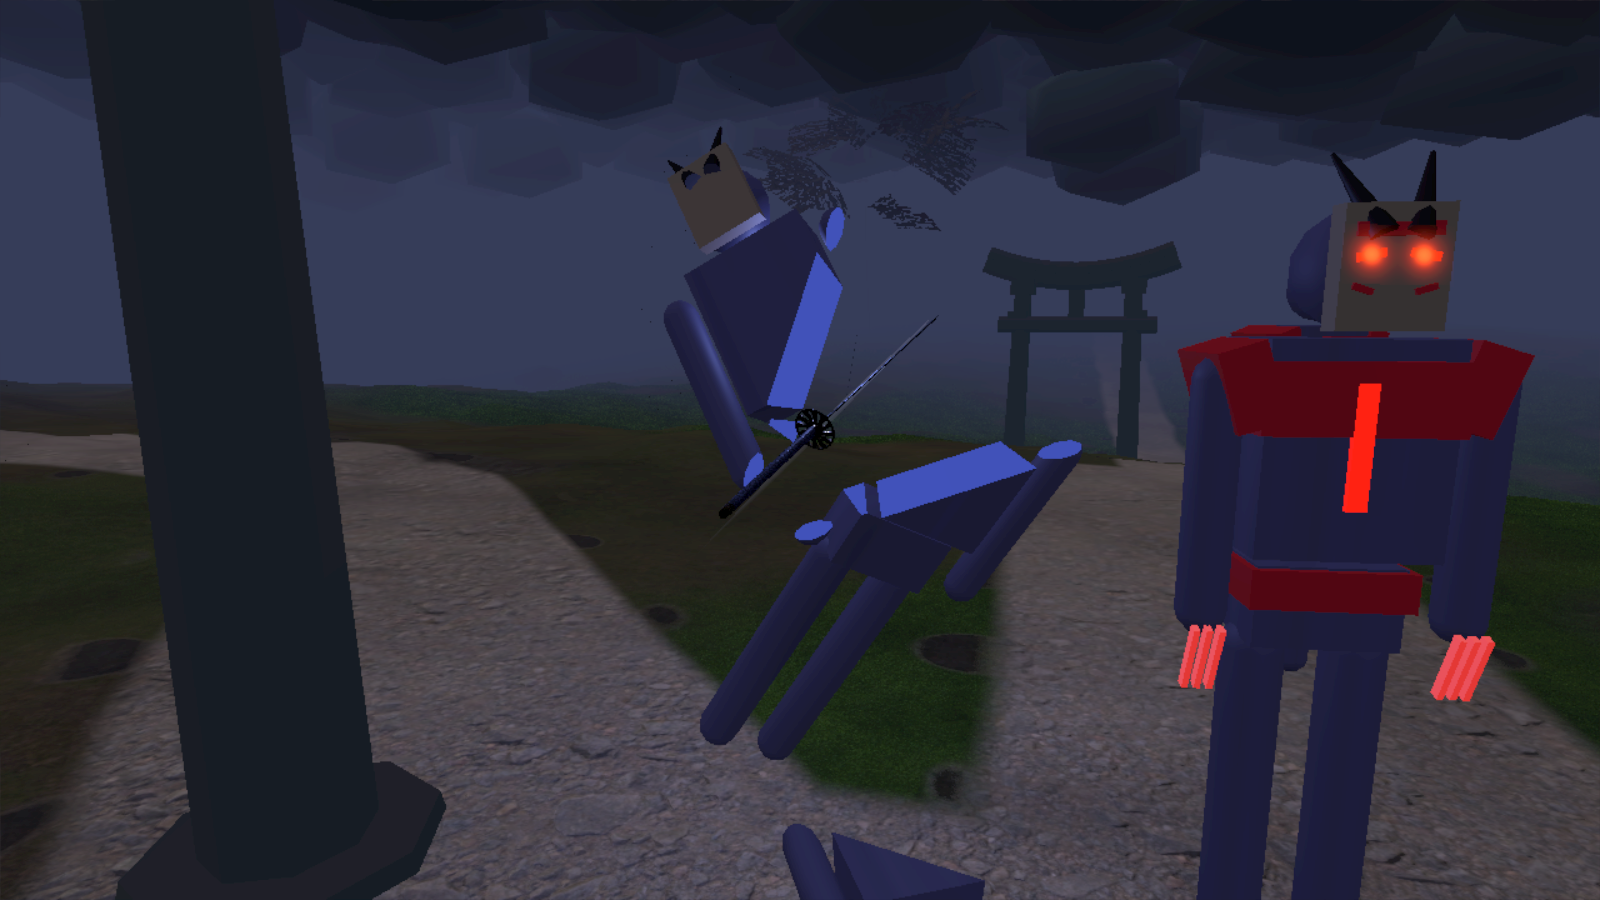
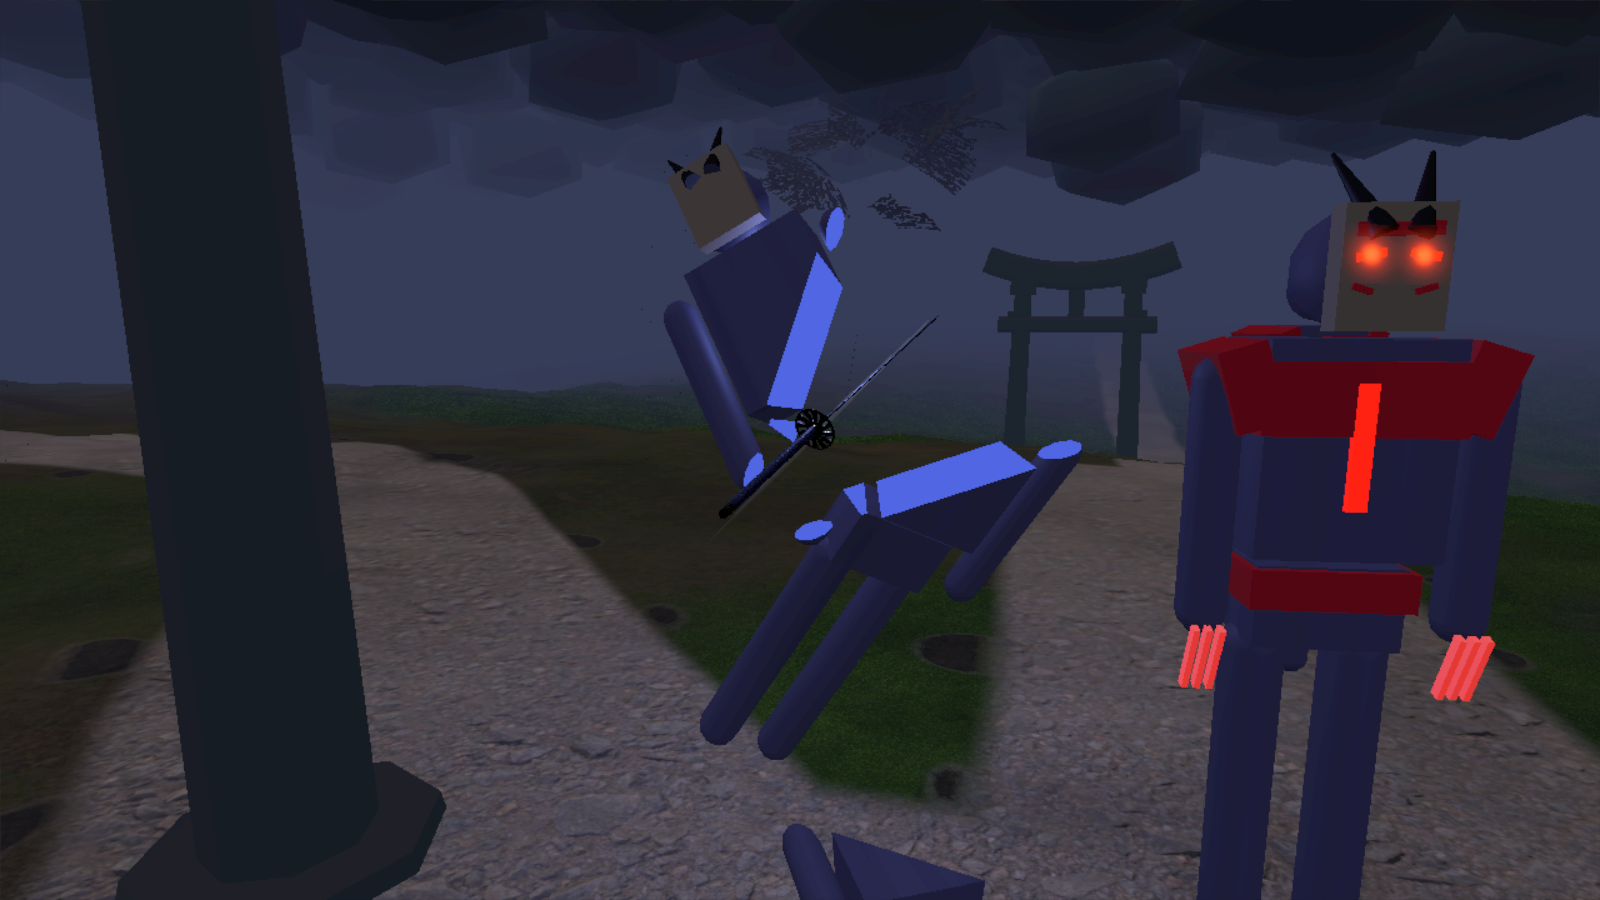
feat(d11): cut glow boost and firework finisher; glade decision recorded
Pieces of the cinematic start 1.6x hotter; the Hanadachi finisher bursts an
ElementFirework at contact instead of a full-screen tint. Glade stays at the spawn
clearing: forest spots tried (30,18) and (-36,-30) put trunks in front of the camera.
Test: finisher burst, glow boost, dynamic lights <= 12.

Changed region(s): [[0.4688, 0.2178, 0.5312, 0.5289], [0.5, 0.4667, 0.6875, 0.6222]]

diff --git a/docs/OPENING_STRIKE.md b/docs/OPENING_STRIKE.md
@@ -17,7 +17,8 @@ Kod: `src/cinematic/opening_strike.gd` (`class_name OpeningStrike`), scena `scen
 - **Cięcia:** pięć zwykłych cięć i finisher. Każde trafienie idzie przez `Yokai.receive_hit` z `kirisute_offer` i `blade_axis`, czyli tą samą ścieżką co żywe ostrze (D4). Płaszczyzna = `KirisuteCut.plane_normal(motion, axis)`. Ostrze porusza się 9 m/s (próg Kirisute to 8 m/s), krawędź prowadzi (`classify_strike` → `edge`, zgodność 1,00).
 - **Żywioły:** Sakura (Hanadachi), Storm, Ink, Shadow, Storm, Sakura (finisher). Kolor przekroju i śladu z `Elements.color`.
 - **Hit-stop lokalny:** po każdym cięciu zegar sekwencji zwalnia do 0,12× na 0,07 s rzeczywistego czasu. `Engine.time_scale` nigdy nie jest zmieniane.
-- **Finisher (~0,6 s):** kolor żywiołu narasta (kwadratowo od 2,7 s, pik 0,55) i przechodzi w biel (2,98–3,22 s). Biel trzyma się do końca (3,32 s). Potem wejście w intro: welon z bieli gaśnie w 0,6 s.
+- **Finisher (~0,6 s):** w punkcie kontaktu wybucha firework żywiołu (`ElementFirework`, skala 1,4), potem przejście w biel (2,98–3,22 s). Biel trzyma się do końca (3,32 s). Potem wejście w intro: welon z bieli gaśnie w 0,6 s. Płaski tint z pierwszej wersji usunięty.
+- **Glow przekroju:** nowe kawałki startują 1,6× mocniej niż kawałki biegu (`CUT_GLOW_BOOST`, tylko w tej scenie; test sprawdza próg dla najciemniejszej szkoły, Ink).
 
 ## VR i desktop
 
@@ -32,6 +33,10 @@ Dźwięki są podpięte pod punkt widza (scena ma własną przestrzeń), a `Ambi
 - `Yokai._fx_scene()`: efekty yōkai (przekrój, iskry, fajerwerk, płatki) idą do `SubViewport`, w którym yōkai stoi, a w biegu nadal do `get_tree().current_scene` (zachowanie bez zmian). Powód: `SceneTree.current_scene` przyjmuje tylko bezpośrednie dziecko roota.
 - `RunSplash.was_skipped` i `RunSplash.fade_veil()` (wspólny welon dla splasha i opening strike).
 - `RunGame`: tworzy `run_cinematic` po splashu i przygotowuje stage w trakcie planszy tytułu (`prepare()`), żeby budowa lasu nie była widoczna.
+
+## Lokacja (ograniczenie)
+
+Kinowa scena stoi na polanie startu (origin, promień ~5,2 m, bez drzew), z układem skalowanym do 0,7. Próby przeniesienia w głąb lasu nie wyszły: w (30, 18) pień zasłaniał kamerę, w (-36, -30) kamera stawała w pniu (zrzut w rundzie, odrzucony). Sonda 9 m czystego miejsca nie znalazła kandydatów w siatce co 6 m. Skutek: w kadrze brak lasu z konceptu. Do zrobienia: maska wycinki drzew w strefie sceny (ForestWorld bez zmian w generatorze) albo ręcznie wybrana, zweryfikowana lokacja.
 
 ## Decyzje podjęte bez pytania (do przeglądu)
 
@@ -56,9 +61,9 @@ Dźwięki są podpięte pod punkt widza (scena ma własną przestrzeń), a `Ambi
 
 **Słabe (nie naprawione):**
 - **Brak lasu w kadrze.** Scena stoi na polanie startu (promień ~5,2 m, bez drzew). Kadry widzą ścieżkę, torii i nocne wzgórza, a nie las z konceptu. Próba przesunięcia na środek lasu odpadła: drzewa stają w stacjach kamery (pień ~1 m). Sondaż 9 m czystego miejsca w lesie nie znalazł kandydatów. Do rozwiązania: maska wycinki drzew w strefie sceny albo ręcznie wybrane miejsce z mapy.
-- **Przekrój nie świeci.** Po cięciu połowy to niebieskie bloki bez widocznej żarzącej się linii w kolorze żywiołu (`d11_2`, `d11_4`). Czerwona/różowa krawędź prawie znika na tej odległości.
+- **Przekrój nadal słabo czytelny.** Po cięciu połowy to niebieskie bloki (`d11_2`, `d11_4`); glow 1,6× nie przebija się na tej odległości. Do poprawy: emisja samej krawędzi zamiast całego przekroju.
 - **Yōkai to istniejący model** (prymitywy, „robot”), daleko od premium z GDD §16. Nie zmieniałem go w tym kroku.
-- **Finisher:** `d11_5_flash_builds.png` to płaski różowy filtr na całym kadrze, a nie błysk. Złagodzone (kwadrat, pik 0,55), ale nadal tintuje, zamiast rozbłyskiwać.
+- **Finisher:** firework w punkcie kontaktu jest na zrzucie mały (`d11_4`). Nie widać go jako rozbłysku; do zrobienia: większa skala albo rozbłysk na ostrzu.
 - **Ślad katany** jest prawie niewidoczny.
 - **Wideo (Movie Maker):** patrz niżej w podsumowaniu.
 
